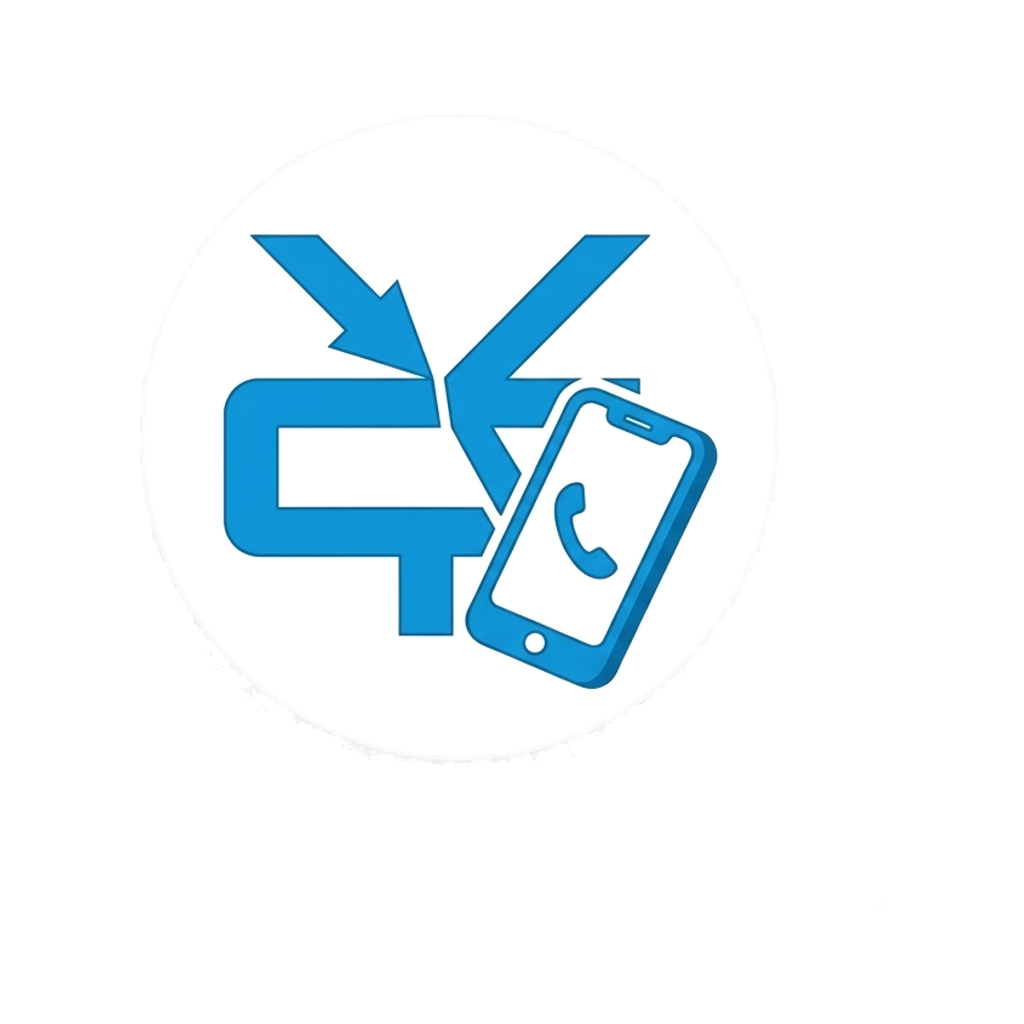
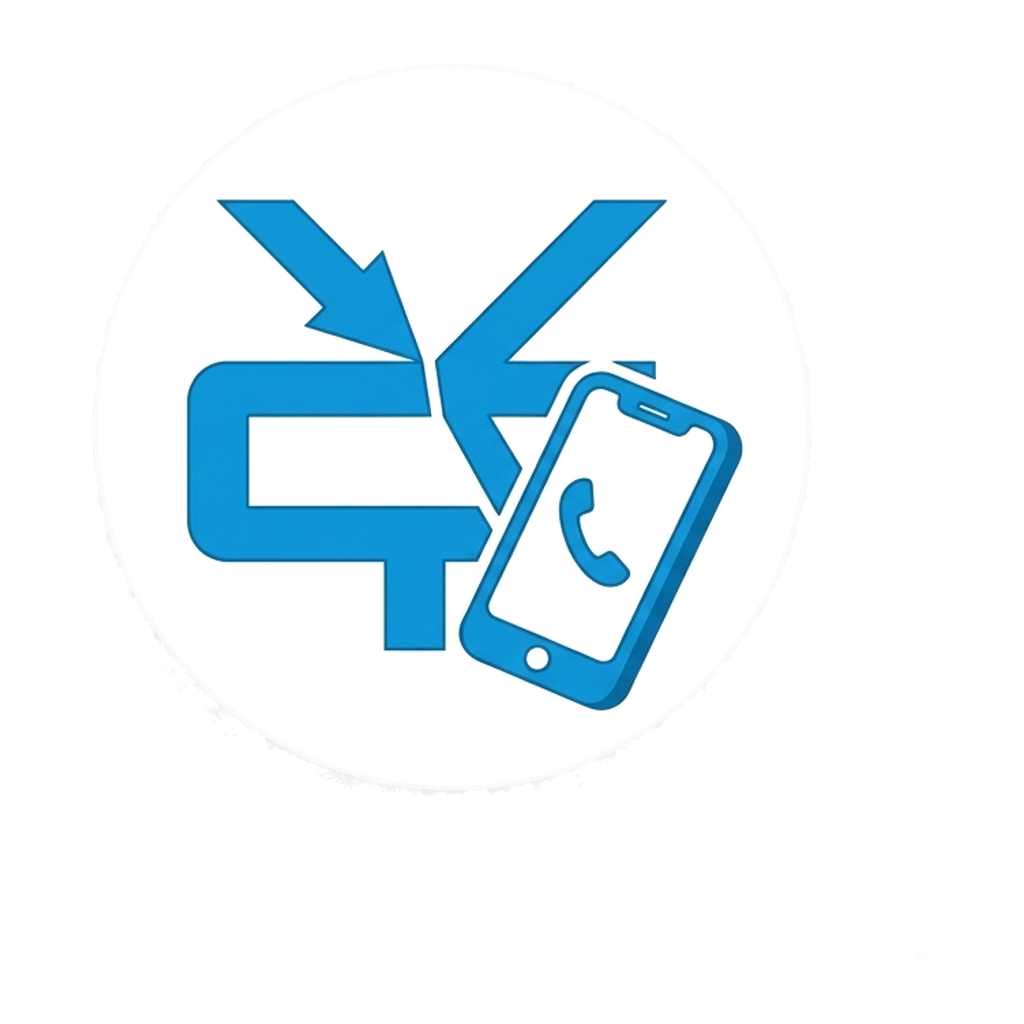
3

Changed region(s): [[0.1562, 0.1875, 0.75, 0.7188]]

diff --git a/www/index.html b/www/index.html
@@ -485,7 +485,7 @@ function buildContactItem(contact) {
         </div>
         <div class="contact-actions">
             ${contact.phone ? `<button class="callBtn" title="התקשר"><i class="fas fa-phone"></i></button>` : ''}
-            ${contact.phone ? `<button class="waBtn" title="וואטסאפ"><i class="fab fa-whatsapp"></i></button>` : ''}
+            ${contact.phone ? `<button class="waBtn" title="וואטסאפ"><svg viewBox="0 0 32 32" width="18" height="18" fill="#25D366"><path d="M16.004 3C9.[phone redacted] 15c0 [phone redacted].437L4 29l7.74-1.86A11.[phone redacted] 27C22.[phone redacted] 15S22.[phone redacted] 3zm0 21.7c-[phone redacted]-.56-5.49-1.62l-.393-.[phone redacted].47-.257-.408A9.[phone redacted] 15c0-[phone redacted] [phone redacted].7s-[phone redacted].7zm5.87-8.02c-.32-.16-1.9-.[phone redacted]-.294-.107-.508-.16-.723.16-.213.32-.[phone redacted]-.187.213-.374.24-.694.08-.32-.16-1.35-.[phone redacted]-.95-.[phone redacted].215-.187-.32-.02-.494.14-.653.144-.144.32-.374.48-.56.16-.187.213-.32.32-.534.107-.213.053-.4-.027-.56-.08-.16-.[phone redacted]-.99-2.39-.26-.626-.526-.542-.723-.552-.187-.008-.4-.01-.615-.01-.213 0-.56.08-.854.4-.[phone redacted] [phone redacted].[phone redacted] [phone redacted].[phone redacted].[phone redacted] [phone redacted]-.092 1.9-.[phone redacted]-.[phone redacted].527-.08-.133-.293-.213-.613-.373z"/></svg></button>` : ''}
             ${contact.email ? `<button class="mailBtn" title="אימייל"><i class="fas fa-envelope"></i></button>` : ''}
             <button class="vcardBtn" title="הוסף לאנשי קשר"><i class="fas fa-address-book"></i></button>
             <button class="favBtn" title="מועדף"><i class="fas fa-star ${isFav ? 'active' : ''}"></i></button>